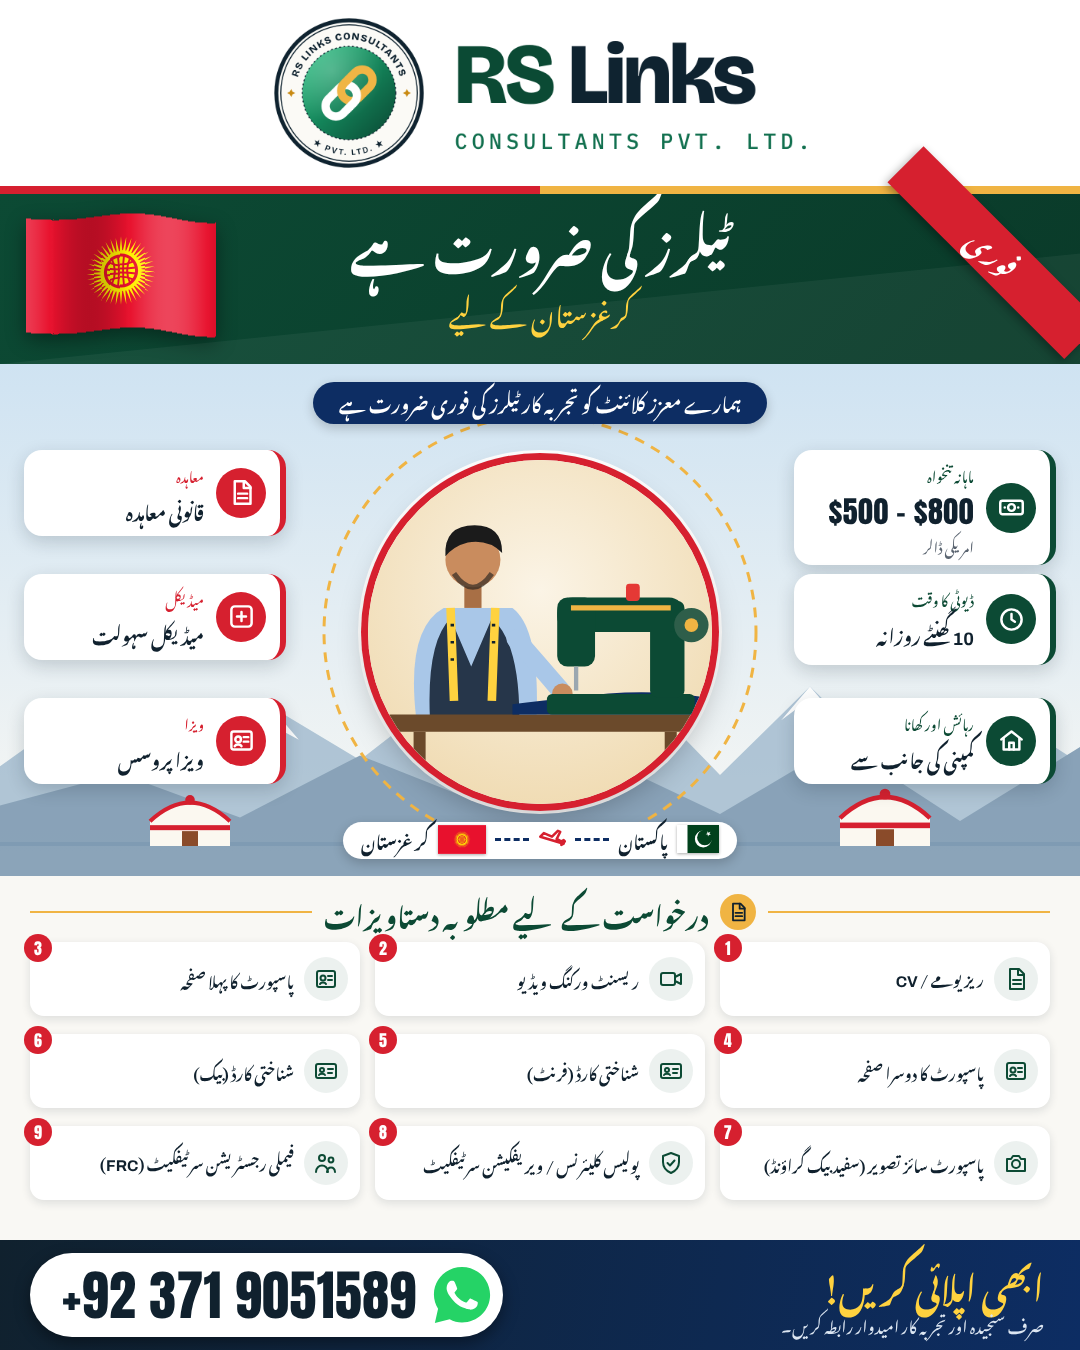
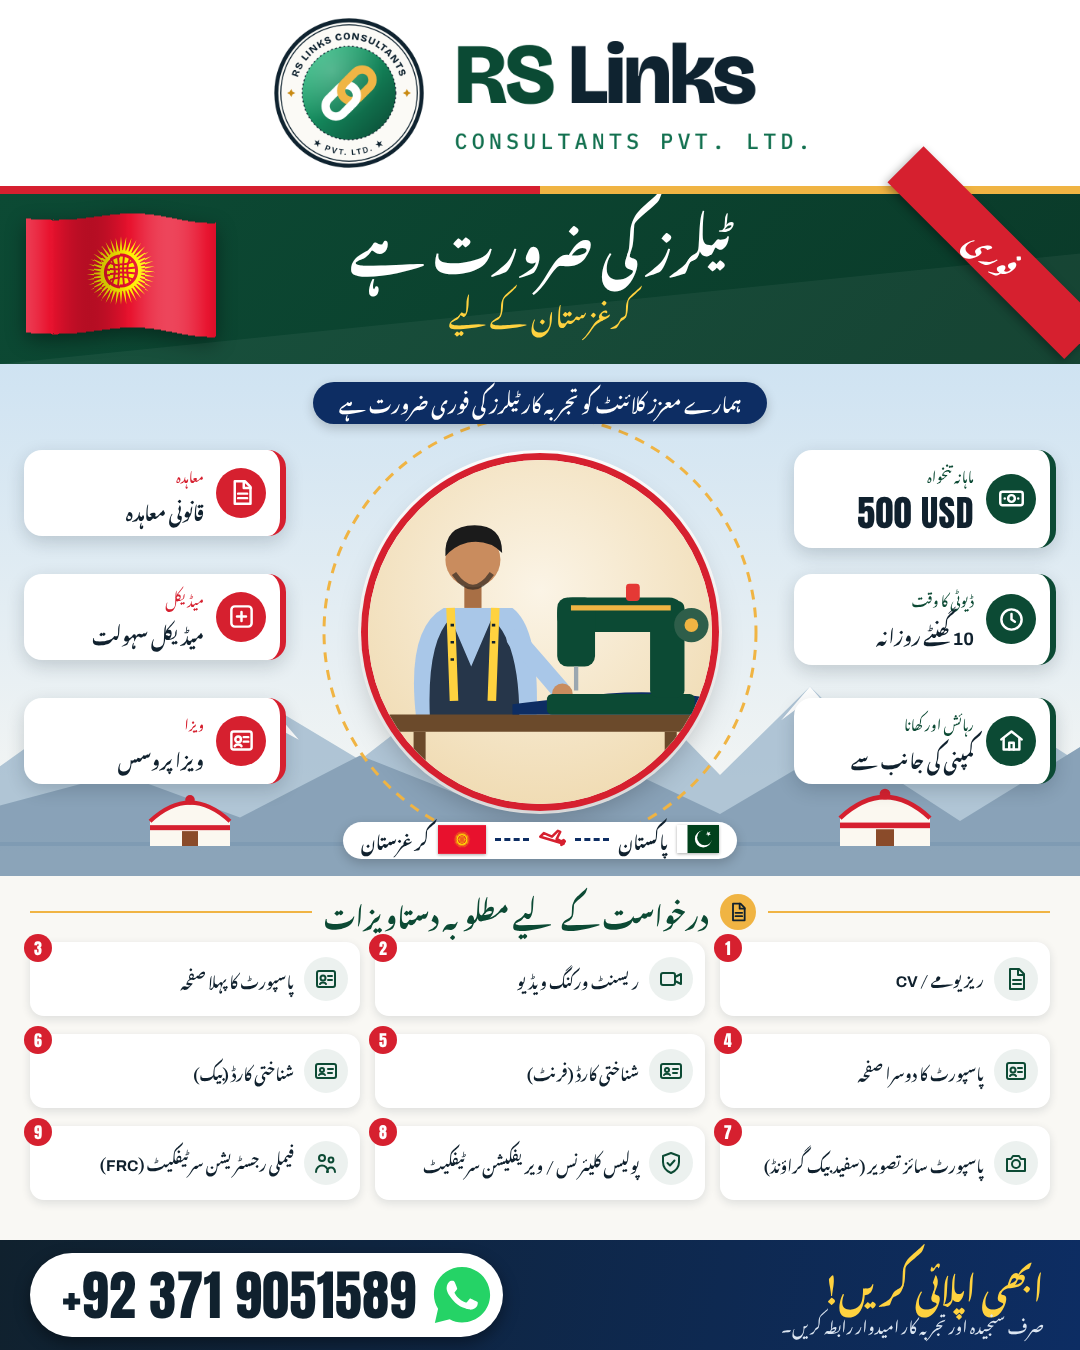
Uzbekistan ad: bike riders + car drivers only; Kyrgyzstan tailors at 500 USD
Per user: Uzbekistan ad has no tailors/factory job; rider 400 USD, driver
450 USD; Kyrgyzstan tailors salary 500 USD. Silk Road style now supports
any number of cards and a full-width two-column panel.

Claude-Session: https://claude.ai/code/session_01YJ5ofgU8QCiWTsYR9pvXG4

Changed region(s): [[0.7333, 0.3422, 0.9778, 0.4356]]

diff --git a/src/data/uzbekistan_jobs.py b/src/data/uzbekistan_jobs.py
@@ -1,109 +1,80 @@
-"""Demand 2026-10-06 (split): Uzbekistan riders, car drivers, tailors (factory: packing, ironing, shifting goods).
-User instruction 2026-10-06: title this job "Tailors", not "Hosiery Workers".
-User correction 2026-10-06: salaries are riders 400 USD, car drivers 450 USD, tailors 500 USD.
-Facts: demands/2026-10-06-uzbekistan-combined/facts.md (sections A and B)."""
+"""Demand 2026-10-06 (split): Uzbekistan — bike riders and car drivers (Tashkent).
+Facts: demands/2026-10-06-uzbekistan-combined/facts.md (section A) plus user corrections:
+riders 400 USD/month, car drivers 450 USD/month; no tailors/factory jobs in this ad."""
 from common import C
 
 N = lambda v: f"<span class='num' style='font-family:Archivo;font-weight:700;letter-spacing:0'>{v}</span>"
 B = lambda v: f"<b style='font-weight:700'>{v}</b>"
 
 DATA = {
-    "stem": "RS-Links-Uzbekistan-Riders-Drivers-Tailors",
-    "layout": {"hero_h": 270, "head_top": 52, "head_top_ur": 22,
-               "cards_top": 470, "cards_h": 500, "panels_top": 982, "panels_h": 244, "cta_top": 1240},
+    "stem": "RS-Links-Uzbekistan-Bike-Riders-Car-Drivers",
+    "layout": {"hero_h": 270, "head_top": 52, "head_top_ur": 22, "cards_gap": 24,
+               "cards_top": 470, "cards_h": 500, "panels_top": 986, "panels_h": 236, "cta_top": 1240},
     "en": {
         "kicker": "URGENT REQUIREMENT FOR",
         "country": "UZBEKISTAN",
-        "cities": "Tashkent & Samarkand",
+        "cities": "Tashkent",
         "urgent": "URGENT",
-        "from": "Pakistan", "to": "Uzbekistan",
-        "stat_n": "120", "stat_label": "POSTS",
+        "from": "Pakistan", "to": "Tashkent, Uzbekistan",
+        "stat_n": "70", "stat_label": "POSTS",
         "jobs": [
-            {"art": "rider", "color": C["emerald2"], "title": "Bike Riders", "title_en_px": 30,
-             "roles": "Scooter / motorcycle",
-             "location": "Tashkent", "posts": ("50", "POSTS"),
-             "salary": {"label": "SALARY", "value": "$400", "size": 44,
+            {"art": "rider", "color": C["emerald2"], "title": "Bike Riders", "title_en_px": 34,
+             "roles": "Scooter / motorcycle riders",
+             "location": "Tashkent, Uzbekistan", "posts": ("50", "POSTS"),
+             "salary": {"label": "SALARY", "value": "$400", "size": 48,
                         "sub": "USD per month + bonus + overtime"},
              "rows": [("clock", f"{B('Duty:')} 12 hours daily"),
                       ("home", f"{B('Accommodation:')} by company"),
                       ("food", f"{B('Food:')} 2 times a day by company")]},
-            {"art": "driver", "color": C["navy"], "title": "Car Drivers", "title_en_px": 30,
-             "roles": "Experienced drivers",
-             "location": "Tashkent", "posts": ("20", "POSTS"),
-             "salary": {"label": "SALARY", "value": "$450", "size": 44, "sub": "USD per month"},
+            {"art": "driver", "color": C["navy"], "title": "Car Drivers", "title_en_px": 34,
+             "roles": "Experienced car drivers",
+             "location": "Tashkent, Uzbekistan", "posts": ("20", "POSTS"),
+             "salary": {"label": "SALARY", "value": "$450", "size": 48, "sub": "USD per month"},
              "rows": [("clock", f"{B('Duty:')} 12 hours daily"),
                       ("home", f"{B('Accommodation:')} by company"),
                       ("food", f"{B('Food:')} provided by company")]},
-            {"art": "tailor", "color": "#8A5A12", "title": "Tailors", "title_en_px": 30,
-             "roles": "Packing · Ironing · Shifting goods",
-             "location": "Tashkent &amp; Samarkand", "posts": ("50", "POSTS"),
-             "salary": {"label": "SALARY", "value": "$500", "size": 44, "sub": "US dollars"},
-             "rows": [("clock", f"{B('Duty:')} 10 hours + overtime"),
-                      ("home", "Accommodation · Medical"),
-                      ("bus", f"{B('Transport:')} by company")]},
         ],
-        "p1_title": "BIKE RIDERS &amp; DRIVERS · REQUIREMENTS",
+        "p1_title": "REQUIREMENTS FOR CANDIDATES",
         "p1": [(None, "Age 21–33 years"),
-               (None, "Relevant work experience required"),
-               (None, "Responsible and hardworking"),
                (None, "Full skill in riding motorcycle / scooter"),
+               (None, "Relevant work experience required"),
                (None, "Good car-driving skill"),
-               (None, "Able to use Google Maps / location")],
-        "p2_title": "TAILORS · DETAILS",
-        "p2": [("user", "Age 21–35 years"),
-               ("visa", "Visa category: B-2"),
-               ("calendar", "Processing time: 30–35 days"),
-               ("check", "Other benefits as per local labour law"),
-               ("plane", f"<b style='color:{C['red']}'>Note: Ticket from Punjab</b>"),
-               ("pin", "Cities: Tashkent and Samarkand")],
+               (None, "Responsible and hardworking"),
+               (None, "Able to use Google Maps / location")],  # row-wise: left col = 1,3,5
         "tagline": "Start your bright future in Uzbekistan!",
         "note": "Only serious and experienced candidates should contact.",
     },
     "ur": {
         "kicker": "فوری ضرورت برائے",
         "country": "ازبکستان",
-        "cities": "تاشقند اور ثمرقند",
+        "cities": "تاشقند",
         "urgent": "فوری بھرتی",
-        "from": "پاکستان", "to": "ازبکستان",
-        "stat_n": "120", "stat_label": "آسامیاں",
+        "from": "پاکستان", "to": "تاشقند، ازبکستان",
+        "stat_n": "70", "stat_label": "آسامیاں",
         "jobs": [
-            {"art": "rider", "color": C["emerald2"], "title": "بائیک رائیڈرز",
-             "roles": "اسکوٹر / موٹر سائیکل",
-             "location": "تاشقند", "posts": ("50", "آسامیاں"),
-             "salary": {"label": "تنخواہ", "value": "400 USD", "size": 40,
+            {"art": "rider", "color": C["emerald2"], "title": "بائیک رائیڈرز", "title_ur_px": 28,
+             "roles": "اسکوٹر / موٹر سائیکل رائیڈرز",
+             "location": "تاشقند، ازبکستان", "posts": ("50", "آسامیاں"),
+             "salary": {"label": "تنخواہ", "value": "400 USD", "size": 44,
                         "sub": "ماہانہ + بونس + اوور ٹائم"},
              "rows": [("clock", f"{B('ڈیوٹی:')} {N(12)} گھنٹے روزانہ"),
                       ("home", f"{B('رہائش:')} کمپنی کی طرف سے"),
-                      ("food", f"{B('کھانا:')} دن میں {N(2)} مرتبہ (کمپنی)")]},
-            {"art": "driver", "color": C["navy"], "title": "کار ڈرائیورز",
-             "roles": "تجربہ کار ڈرائیورز",
-             "location": "تاشقند", "posts": ("20", "آسامیاں"),
-             "salary": {"label": "تنخواہ", "value": "450 USD", "size": 40, "sub": "ماہانہ"},
+                      ("food", f"{B('کھانا:')} دن میں {N(2)} مرتبہ کمپنی کی طرف سے")]},
+            {"art": "driver", "color": C["navy"], "title": "کار ڈرائیورز", "title_ur_px": 28,
+             "roles": "تجربہ کار کار ڈرائیورز",
+             "location": "تاشقند، ازبکستان", "posts": ("20", "آسامیاں"),
+             "salary": {"label": "تنخواہ", "value": "450 USD", "size": 44, "sub": "ماہانہ"},
              "rows": [("clock", f"{B('ڈیوٹی:')} {N(12)} گھنٹے روزانہ"),
                       ("home", f"{B('رہائش:')} کمپنی کی طرف سے"),
-                      ("food", f"{B('کھانا:')} کمپنی کی طرف سے")]},
-            {"art": "tailor", "color": "#8A5A12", "title": "ٹیلرز",
-             "roles": "پیکنگ، استری کرنا، سامان شفٹ کرنا",
-             "location": "تاشقند اور ثمرقند", "posts": ("50", "آسامیاں"),
-             "salary": {"label": "تنخواہ", "value": "500 USD", "size": 40, "sub": "ڈالر"},
-             "rows": [("clock", f"{B('ڈیوٹی:')} {N(10)} گھنٹے + اوور ٹائم"),
-                      ("home", "رہائش • میڈیکل"),
-                      ("bus", f"{B('ٹرانسپورٹ:')} بذمہ کمپنی")]},
+                      ("food", f"{B('کھانا:')} کمپنی کی طرف سے فراہم کیا جائے گا")]},
         ],
-        "p1_title": "بائیک رائیڈرز و ڈرائیورز کے لیے شرائط",
+        "p1_title": "امیدواروں کے لیے شرائط",
         "p1": [(None, f"عمر کی حد: {N('21 – 33')} سال"),
-               (None, "متعلقہ کام کا تجربہ ضروری"),
-               (None, "ذمہ دار اور محنتی"),
                (None, "موٹر سائیکل / اسکوٹر چلانے میں مکمل مہارت"),
+               (None, "متعلقہ کام کا تجربہ ضروری"),
                (None, "کار ڈرائیونگ کی اچھی مہارت"),
-               (None, f"{N('Google Maps')} / لوکیشن کے استعمال کی صلاحیت")],
-        "p2_title": "ٹیلرز — تفصیلات",
-        "p2": [("user", f"عمر کی حد: {N('21 – 35')} سال"),
-               ("visa", f"ویزا کیٹیگری: {N('B-2')}"),
-               ("calendar", f"پروسیسنگ ٹائم: {N('30 – 35')} دن"),
-               ("check", "دیگر مراعات مقامی لیبر لاء کے مطابق"),
-               ("plane", f"<b style='color:{C['red']}'>نوٹ: ٹکٹ پنجاب سے ہوگا</b>"),
-               ("pin", "شہر: تاشقند اور ثمرقند")],
+               (None, "ذمہ دار اور محنتی"),
+               (None, f"{N('Google Maps')} / لوکیشن استعمال کرنے کی صلاحیت")],
         "tagline": "اپنا روشن مستقبل ازبکستان سے شروع کریں!",
         "note": "صرف سنجیدہ اور تجربہ کار امیدوار رابطہ کریں۔",
     },

diff --git a/src/style_silk_road.py b/src/style_silk_road.py
@@ -74,7 +74,7 @@ def job_card(job, x, y, w, h, f, uid):
   {f.head(job['title'], job.get('title_en_px', 28), job.get('title_ur_px', 25), col, 'text-align:center')}
   {f.txt(job['roles'], 14.5, 15, '#5A6470', 'text-align:center', 1.75 if f.ur else 1.2) if job.get('roles') else ''}
   <div style='display:flex;align-items:center;justify-content:center;gap:5px;margin-top:{0 if f.ur else 4}px'>{icon('pin', 15, C['red'], 2.6)}
-   {f.txt(job['location'], 14.5, 15.5, C['navy'], 'font-weight:700', 1.55 if f.ur else 1.2)}</div>
+   {f.txt(job['location'], 14.5, 15.5, C['navy'], 'font-weight:700', 1.85 if f.ur else 1.2)}</div>
   <div style='margin:{6 if f.ur else 10}px auto 0;background:{col};border-radius:14px;padding:{'4px 8px 6px' if f.ur else '8px 8px'};color:#fff'>
     {f.label(sal['label'], 12, 15, C['gold2'], 'text-align:center')}
     <div class='num' style='font-size:{sal.get('size', 40)}px;line-height:1.05;margin-top:{(14 if sal.get('rtl') else 4) if f.ur else 0}px;{'direction:rtl' if sal.get('rtl') else ''}'>{sal['value']}</div>
@@ -83,18 +83,19 @@ def job_card(job, x, y, w, h, f, uid):
 </div></div>"""
 
 
-def panel(title, items, x, y, w, h, f, uid, check_icon="check", accent=None):
+def panel(title, items, x, y, w, h, f, uid, check_icon="check", accent=None, cols=1, px=(16, 16)):
     accent = accent or C["emerald2"]
     lis = "".join(
-        f"<div style='display:flex;align-items:center;gap:9px'>"
+        f"<div style='display:flex;align-items:center;gap:9px;width:{100 // cols}%;padding-inline-end:12px'>"
         f"<div class='ic' style='width:24px;height:24px;background:{accent}'>{icon(ic or check_icon, 14, '#fff', 3)}</div>"
-        f"{f.txt(txt, 16, 16, C['navy2'], 'min-width:0', 1.8 if f.ur else 1.25)}</div>"
+        f"{f.txt(txt, px[0], px[1], C['navy2'], 'min-width:0', 1.8 if f.ur else 1.25)}</div>"
         for ic, txt in items)
     return f"""<div class='abs' style='inset-inline-start:{x}px;top:{y}px;width:{w}px;height:{h}px;background:#FBF8F0;border-radius:18px;
- border:3px solid {C['gold']};padding:{'6px 18px' if f.ur else '14px 18px'};display:flex;flex-direction:column;gap:{0 if f.ur else 7}px' data-check='{uid}'>
+ border:3px solid {C['gold']};padding:{'6px 18px' if f.ur else '14px 18px'};display:flex;flex-direction:column;justify-content:{'center' if cols > 1 else 'flex-start'};gap:{(10 if f.ur else 16) if cols > 1 else (0 if f.ur else 7)}px' data-check='{uid}'>
  <div style='display:flex;align-items:center;gap:8px;margin-bottom:{0 if f.ur else 4}px'>
   <div style='width:10px;height:10px;transform:rotate(45deg);background:{C['gold']}'></div>
-  {f.label(title, 13.5, 18, C['green'], 'font-weight:700')}</div>{lis}</div>"""
+  {f.label(title, 13.5, 18, C['green'], 'font-weight:700')}</div>
+ <div style='display:flex;flex-wrap:wrap;row-gap:{(8 if f.ur else 20) if cols > 1 else (0 if f.ur else 7)}px'>{lis}</div></div>"""
 
 
 def build(d, lang):
@@ -137,12 +138,17 @@ def build(d, lang):
  <div style='display:inline-block;background:{C['red']};color:#fff;border-radius:10px;padding:{'0 12px' if ur else '6px 12px'};transform:rotate({4 if ur else -4}deg);box-shadow:0 4px 10px #0005'>
  {f.head(t['urgent'], 26, 24, '#fff')}</div></div>"""
     # ---------------- job cards
-    cy, ch, cw, gap = g["cards_top"], g["cards_h"], 326, 18
+    n = len(t["jobs"])
+    cy, ch, gap = g["cards_top"], g["cards_h"], g.get("cards_gap", 18)
+    cw = (1014 - gap * (n - 1)) // n
     cards = "".join(job_card(job, 33 + i * (cw + gap), cy, cw, ch, f, f"c{i}{lang}") for i, job in enumerate(t["jobs"]))
     # ---------------- panels
     py, ph = g["panels_top"], g["panels_h"]
-    panels = (panel(t["p1_title"], t["p1"], 33, py, 497, ph, f, "p1" + lang) +
-              panel(t["p2_title"], t["p2"], 550, py, 497, ph, f, "p2" + lang, accent=C["green"]))
+    if t.get("p2"):
+        panels = (panel(t["p1_title"], t["p1"], 33, py, 497, ph, f, "p1" + lang) +
+                  panel(t["p2_title"], t["p2"], 550, py, 497, ph, f, "p2" + lang, accent=C["green"]))
+    else:  # single full-width panel, two columns
+        panels = panel(t["p1_title"], t["p1"], 33, py, 1014, ph, f, "p1" + lang, cols=2, px=(19, 19))
     # ---------------- CTA
     ct = g["cta_top"]
     cta = f"""<div class='abs' style='top:{ct}px;left:0;width:1080px;height:{1350-ct}px;background:{GOLD_GRAD}'></div>

diff --git a/src/data/kyrgyzstan_tailors.py b/src/data/kyrgyzstan_tailors.py
@@ -1,6 +1,6 @@
 """Demand 2026-10-06 (split): experienced tailors for Kyrgyzstan.
 Facts: demands/2026-10-06-uzbekistan-combined/facts.md (section C); the user
-confirmed the destination country is Kyrgyzstan."""
+confirmed the destination country is Kyrgyzstan, and corrected the tailor salary to 500 USD."""
 from common import C
 
 N = lambda v: f"<span class='num' style='font-family:Archivo;font-weight:700;letter-spacing:0'>{v}</span>"
@@ -20,7 +20,7 @@ DATA = {
         "opener": "Our respected client urgently needs experienced tailors",
         "from": "Pakistan", "to": "Kyrgyzstan",
         "badges_start": [
-            {"icon": "money", "label": "MONTHLY SALARY", "value": "$500–$800", "size": 32, "sub": "US dollars"},
+            {"icon": "money", "label": "MONTHLY SALARY", "value": "$500", "size": 40, "sub": "USD"},
             {"icon": "clock", "label": "DUTY", "value": "10 HOURS", "sub": "daily"},
             {"icon": "home", "label": "ACCOMMODATION &amp; FOOD", "value": "By company", "num": False},
         ],
@@ -46,7 +46,7 @@ DATA = {
         "opener": "ہمارے معزز کلائنٹ کو تجربہ کار ٹیلرز کی فوری ضرورت ہے",
         "from": "پاکستان", "to": "کرغزستان",
         "badges_start": [
-            {"icon": "money", "label": "ماہانہ تنخواہ", "value": "$500 – $800", "size": 30, "sub": "امریکی ڈالر"},
+            {"icon": "money", "label": "ماہانہ تنخواہ", "value": "500 USD", "size": 36},
             {"icon": "clock", "label": "ڈیوٹی کا وقت", "value": f"{N(10)} گھنٹے روزانہ", "num": False},
             {"icon": "home", "label": "رہائش اور کھانا", "value": "کمپنی کی جانب سے", "num": False},
         ],

diff --git a/output/design-log.md b/output/design-log.md
@@ -6,5 +6,5 @@ Check the last few entries before starting a new post so each post looks differe
 | Date | Post | Style | Colours | Key visuals |
 |------|------|-------|---------|-------------|
 | 2026-10-06 | RS-Links-Uzbekistan-Riders-Drivers-Factory-Tailors | Corporate navy/gold grid (`style_corporate_grid.py`): white big-logo header, navy skyline hero with PK→UZ route + "120 posts" stat, one wide group card (riders + drivers + requirements + shared-facts strip), two tall cards (hosiery workers; tailors with 9-doc grid), green WhatsApp CTA bar | Off-white base, navy #0D2D63 hero/strips, gold #F0B443 accents, emerald/green/amber per-card accents, red posts ribbons | Waving Uzbekistan flag, Tashkent TV Tower + Registan silhouettes, circular semi-flat trade illustrations (rider, driver, factory, tailor) |
-| 2026-10-06 | RS-Links-Uzbekistan-Riders-Drivers-Tailors (third job retitled "Tailors" per user) | Silk Road / cultural (`style_silk_road.py`): girih-tile deep-green background, white logo plate with gold border, pointed-arch navy hero with Registan + TV Tower, gold rosette seals, three arch-topped job cards, two gold-bordered detail panels, gold CTA bar | Deep green #0C4A34 base, navy arch, gold #F0B443/#FFD23F, emerald / navy / brown card accents | Waving UZ flag, PK→UZ route, arch-framed trade illustrations |
+| 2026-10-06 | RS-Links-Uzbekistan-Bike-Riders-Car-Drivers | Silk Road / cultural (`style_silk_road.py`): girih-tile deep-green background, white logo plate with gold border, pointed-arch navy hero with Registan + TV Tower, gold rosette seals, two arch-topped job cards, full-width two-column requirements panel, gold CTA bar | Deep green #0C4A34 base, navy arch, gold #F0B443/#FFD23F, emerald / navy / brown card accents | Waving UZ flag, PK→UZ route, arch-framed trade illustrations |
 | 2026-10-06 | RS-Links-Kyrgyzstan-Tailors | Circular centrepiece (`style_orbit.py`): white header with centred logo, deep-green headline band with corner "URGENT" sash + waving KG flag, sky/mountain scene with big circular tailor image and 6 orbiting benefit badges, route pill, 3×3 numbered documents grid, navy CTA bar | Off-white, deep green, Kyrgyz red #D6202F accent, gold, navy CTA | Kyrgyz flag (2023 straight-ray spec), Tian Shan ridge, yurts |

diff --git a/demands/2026-10-06-uzbekistan-combined/facts.md b/demands/2026-10-06-uzbekistan-combined/facts.md
@@ -61,6 +61,8 @@ Source: three reference ads (screenshots in this folder). Content only; no layou
   candidate pays for the ticket?
 
 ## User corrections (2026-10-06)
-- Uzbekistan job 3 is titled **Tailors** (not hosiery workers); Kyrgyzstan is a separate tailors demand.
-- Uzbekistan salaries: **bike riders 400 USD**, **car drivers 450 USD**, **tailors 500 USD**.
-  (Replaces "10 lakh Uzbek som" for riders and "$400" for job 3.)
+- **Uzbekistan ad = bike riders + car drivers only** (Tashkent). The factory/hosiery demand (B) is
+  not used.
+- **Kyrgyzstan ad = tailors** (demand C).
+- Salaries: **bike riders 400 USD/month**, **car drivers 450 USD/month**, **tailors 500 USD**
+  (replaces "10 lakh Uzbek som" for riders and "$500–$800" for tailors).
